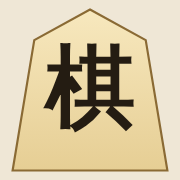
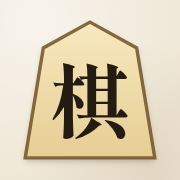
アイコンの「棋」を Shippori Mincho で描き直す
盤の駒と同じ書体・同じ字の下げ幅で描くようにした。
これまでは canvas がフォントの到着前に描いていたため、
指定した書体ではなく環境まかせのゴシックで焼き込まれていた。

- tools/make-icons.js: document.fonts.load() を待ってから描く。
  描き終わりを title で知らせ、撮る前に fonts.check() で
  本当にその書体になっているかを確かめる。違えば止める。
- Shippori Mincho Bold を取ってきて file:// で読ませる。
  リポジトリに置いてあればそれを使う。
- 駒を少し小さくして和紙の地を見せ、影を付けて紙に置いた駒に見せる。
  maskable は中央80%の円に収まるサイズのまま。
- 中身が変わったので sw.js のキャッシュ名を上げた。
  すでにホーム画面に入れてある端末にも新しいアイコンが届く。

Claude-Session: https://claude.ai/code/session_01Q8z5KNUEJ6UquRWH2yFofw

diff --git a/tools/make-icons.js b/tools/make-icons.js
@@ -1,56 +1,104 @@
 /* アイコンを作りなおすスクリプト。
    駒の形（五角形）に「棋」を書いたものを PNG で書き出す。
+   字は盤の駒と同じ Shippori Mincho Bold、字の下げ幅も盤と同じにしてある。
    canvas で描いて撮るので Playwright が要る:
-     npm i playwright && node tools/make-icons.js                     */
+     npm i playwright && node tools/make-icons.js
+   ブラウザの実行ファイルを指定したいときは CHROME_PATH を渡す。       */
 "use strict";
+const fs=require("fs");
+const os=require("os");
 const path=require("path");
 const {chromium}=require("playwright");
 
 const OUT=path.join(__dirname,"..");
+const FONT="ShipporiMincho-Bold.ttf";
+const FONT_URL="https://raw.githubusercontent.com/google/fonts/main/ofl/shipporimincho/"+FONT;
+
 const SIZES=[
-  {file:"icon-192.png",        size:192, koma:0.86},
-  {file:"icon-512.png",        size:512, koma:0.86},
-  {file:"apple-touch-icon.png",size:180, koma:0.86},
-  // maskable は四隅を切られるので、駒を中央の安全圏に収める
-  {file:"icon-512-maskable.png",size:512, koma:0.60}
+  {file:"icon-192.png",         size:192, koma:0.72},
+  {file:"icon-512.png",         size:512, koma:0.72},
+  {file:"apple-touch-icon.png", size:180, koma:0.72},
+  // maskable は四隅を切られるので、駒を中央の安全圏（中心80%の円）に収める
+  {file:"icon-512-maskable.png",size:512, koma:0.54}
 ];
 
-const page=(size,koma)=>`<!doctype html><meta charset="utf-8">
-<style>html,body{margin:0;padding:0}canvas{display:block}</style>
+const html=(size,koma)=>`<!doctype html><meta charset="utf-8">
+<style>
+@font-face{font-family:Koma;src:url(${FONT}) format("truetype");font-weight:700}
+html,body{margin:0;padding:0}canvas{display:block}
+</style>
 <canvas id="c" width="${size}" height="${size}"></canvas>
 <script>
 const S=${size}, K=${koma};
 const g=document.getElementById("c").getContext("2d");
+// フォントが届いてから描く。届く前に描くと別の書体で焼き込まれてしまう。
+document.fonts.load(Math.round(S*0.5)+"px Koma","棋").then(paint).catch(paint);
+function paint(){
+// 和紙の地
 g.fillStyle="#EFE7D6"; g.fillRect(0,0,S,S);
-const w=S*K, h=S*K*1.04, cx=S/2, cy=S/2, hw=w/2, hh=h/2;
-g.save(); g.translate(cx,cy);
-g.beginPath();
-g.moveTo(0,-hh);
-g.lineTo(hw*0.72,-hh*0.62);
-g.lineTo(hw,hh);
-g.lineTo(-hw,hh);
-g.lineTo(-hw*0.72,-hh*0.62);
-g.closePath(); g.restore();
-const grad=g.createLinearGradient(cx,cy-hh,cx,cy+hh);
-grad.addColorStop(0,"#F7E8BE"); grad.addColorStop(1,"#E6CE94");
-g.fillStyle=grad; g.fill();
-g.strokeStyle="#8A6A34"; g.lineWidth=S*0.012; g.stroke();
+let bg=g.createRadialGradient(S*0.2,S*0.12,0,S*0.2,S*0.12,S*0.9);
+bg.addColorStop(0,"rgba(255,255,255,.55)"); bg.addColorStop(1,"rgba(255,255,255,0)");
+g.fillStyle=bg; g.fillRect(0,0,S,S);
+bg=g.createRadialGradient(S*0.85,S*0.92,0,S*0.85,S*0.92,S*0.7);
+bg.addColorStop(0,"rgba(150,120,80,.14)"); bg.addColorStop(1,"rgba(150,120,80,0)");
+g.fillStyle=bg; g.fillRect(0,0,S,S);
+
+// 駒（index.html の pentagon と同じ形）
+const w=S*K, h=w*1.0476, cx=S/2, cy=S/2, hw=w/2, hh=h/2;
+function shape(){
+  g.beginPath();
+  g.moveTo(cx,cy-hh);
+  g.lineTo(cx+hw*0.72,cy-hh*0.62);
+  g.lineTo(cx+hw,cy+hh);
+  g.lineTo(cx-hw,cy+hh);
+  g.lineTo(cx-hw*0.72,cy-hh*0.62);
+  g.closePath();
+}
+g.save();
+g.shadowColor="rgba(70,50,25,.30)"; g.shadowBlur=S*0.035; g.shadowOffsetY=S*0.018;
+shape();
+const gr=g.createLinearGradient(cx,cy-hh,cx,cy+hh);
+gr.addColorStop(0,"#F7E8BE"); gr.addColorStop(1,"#E6CE94");
+g.fillStyle=gr; g.fill();
+g.restore();
+shape();
+g.strokeStyle="rgba(120,90,45,.9)"; g.lineWidth=Math.max(1,w*0.026); g.stroke();
+
+// 字（盤の駒と同じ大きさ・同じ下げ幅）
 g.fillStyle="#241C12";
-g.font="600 "+Math.round(h*0.56)+'px "Hiragino Mincho ProN","Yu Mincho","Noto Serif JP",serif';
+g.font=Math.round(h*0.60)+"px Koma";
 g.textAlign="center"; g.textBaseline="middle";
-g.fillText("棋",cx,cy+h*0.03);
+g.fillText("棋",cx,cy+h*0.085);
+  document.title="ready";
+}
 </script>`;
 
 (async()=>{
-  const exe=process.env.CHROME_PATH;             // 環境によっては実行ファイルを指定する
+  const dir=fs.mkdtempSync(path.join(os.tmpdir(),"kifu-icons-"));
+  const font=path.join(dir,FONT);
+  if(fs.existsSync(path.join(OUT,FONT))) fs.copyFileSync(path.join(OUT,FONT),font);
+  else{
+    process.stdout.write("フォントを取得中… ");
+    const r=await fetch(FONT_URL);
+    if(!r.ok) throw new Error("フォントを取れませんでした: "+r.status);
+    fs.writeFileSync(font,Buffer.from(await r.arrayBuffer()));
+    console.log("完了");
+  }
+  const exe=process.env.CHROME_PATH;
   const b=await chromium.launch(exe?{executablePath:exe}:{});
   for(const s of SIZES){
+    const page=path.join(dir,"i.html");
+    fs.writeFileSync(page,html(s.size,s.koma));
     const ctx=await b.newContext({viewport:{width:s.size,height:s.size},deviceScaleFactor:1});
     const p=await ctx.newPage();
-    await p.setContent(page(s.size,s.koma));
+    await p.goto("file://"+page);
+    await p.waitForFunction(()=>document.title==="ready",{timeout:20000});
+    if(!await p.evaluate(()=>document.fonts.check(Math.round(S*0.5)+"px Koma","棋")))
+      throw new Error("フォントを読み込めませんでした: "+FONT);
     await p.locator("#c").screenshot({path:path.join(OUT,s.file)});
     await ctx.close();
     console.log(s.file,s.size+"x"+s.size);
   }
   await b.close();
+  fs.rmSync(dir,{recursive:true,force:true});
 })();

diff --git a/sw.js b/sw.js
@@ -2,7 +2,8 @@
    対局場で電波が悪くても開けるように、一式をキャッシュから出す。
    キャッシュを先に返し、裏で新しいものを取りに行って次回に備える。 */
 "use strict";
-const CACHE="kifu-note-v1";
+/* 中身を入れ替えたら、この名前を上げる。古いキャッシュは activate で捨てる。 */
+const CACHE="kifu-note-v2";
 const ASSETS=[
   "./",
   "./index.html",
